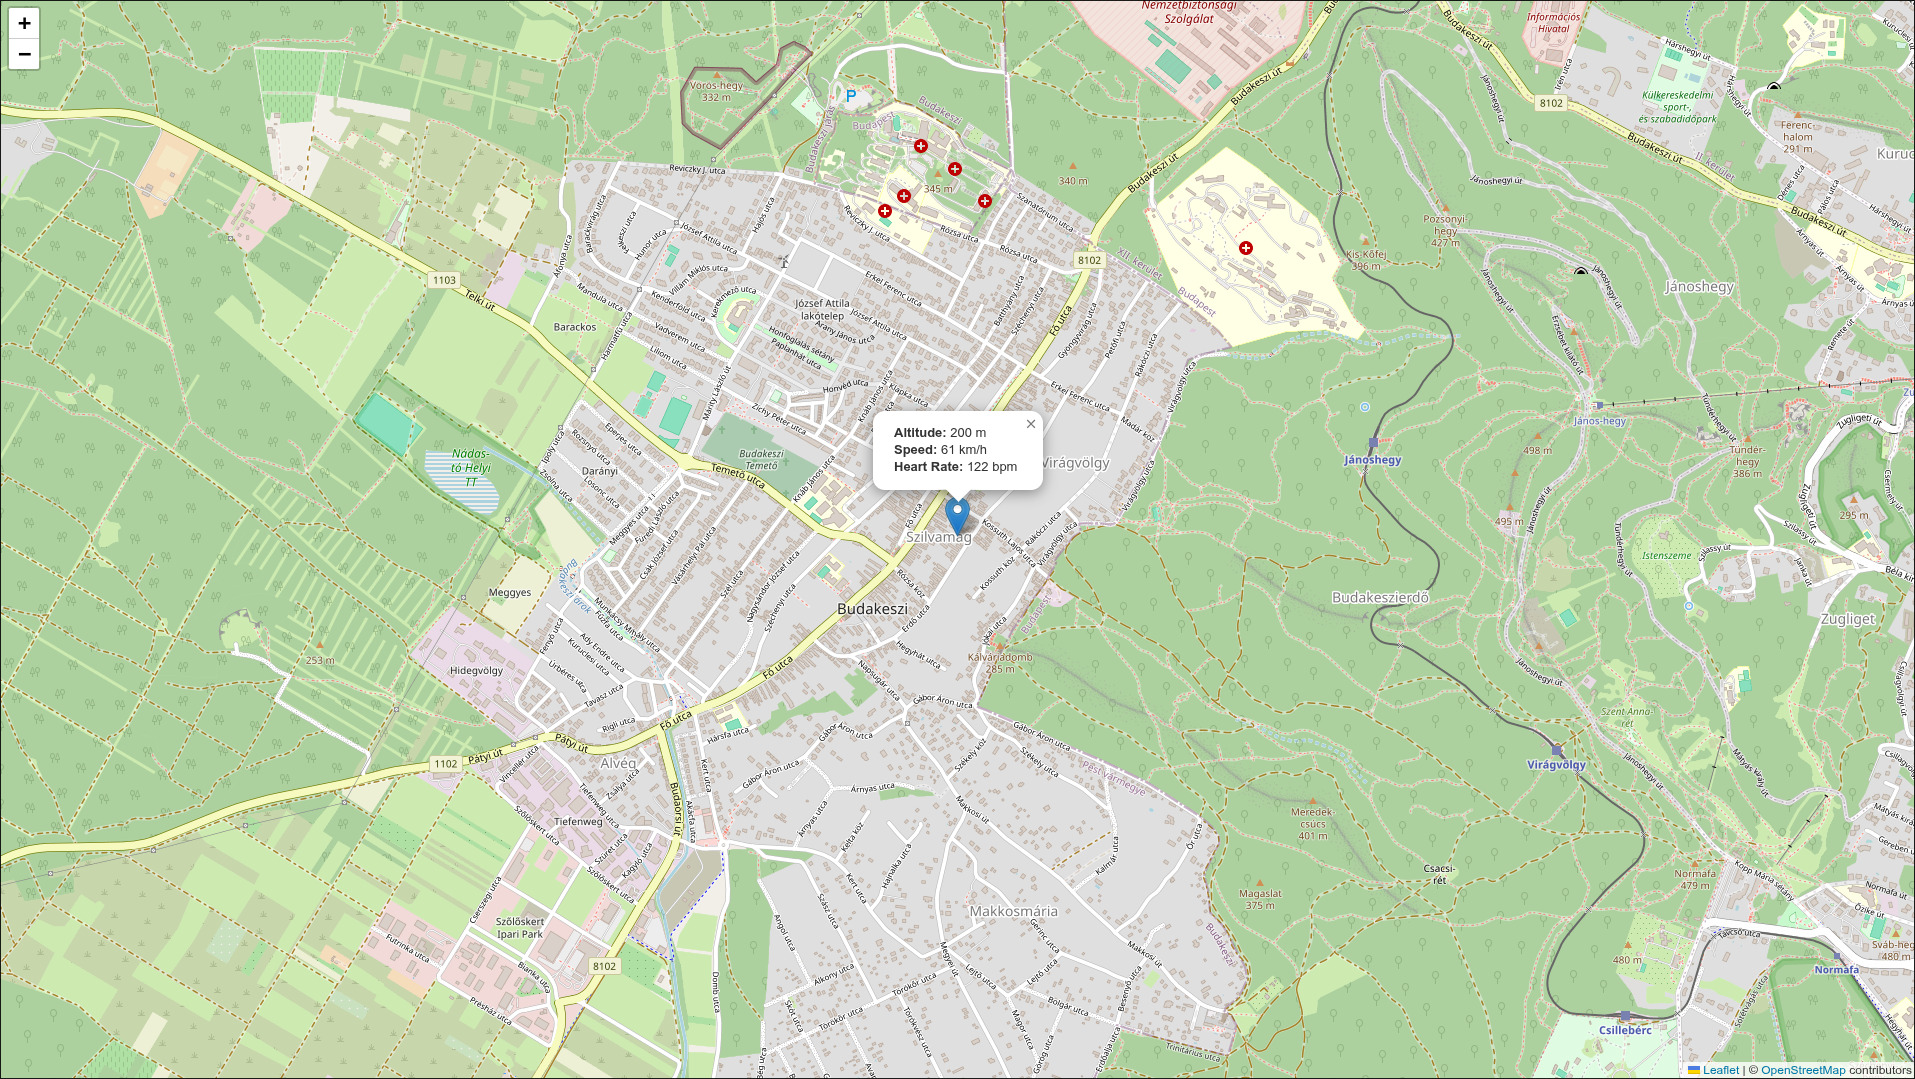
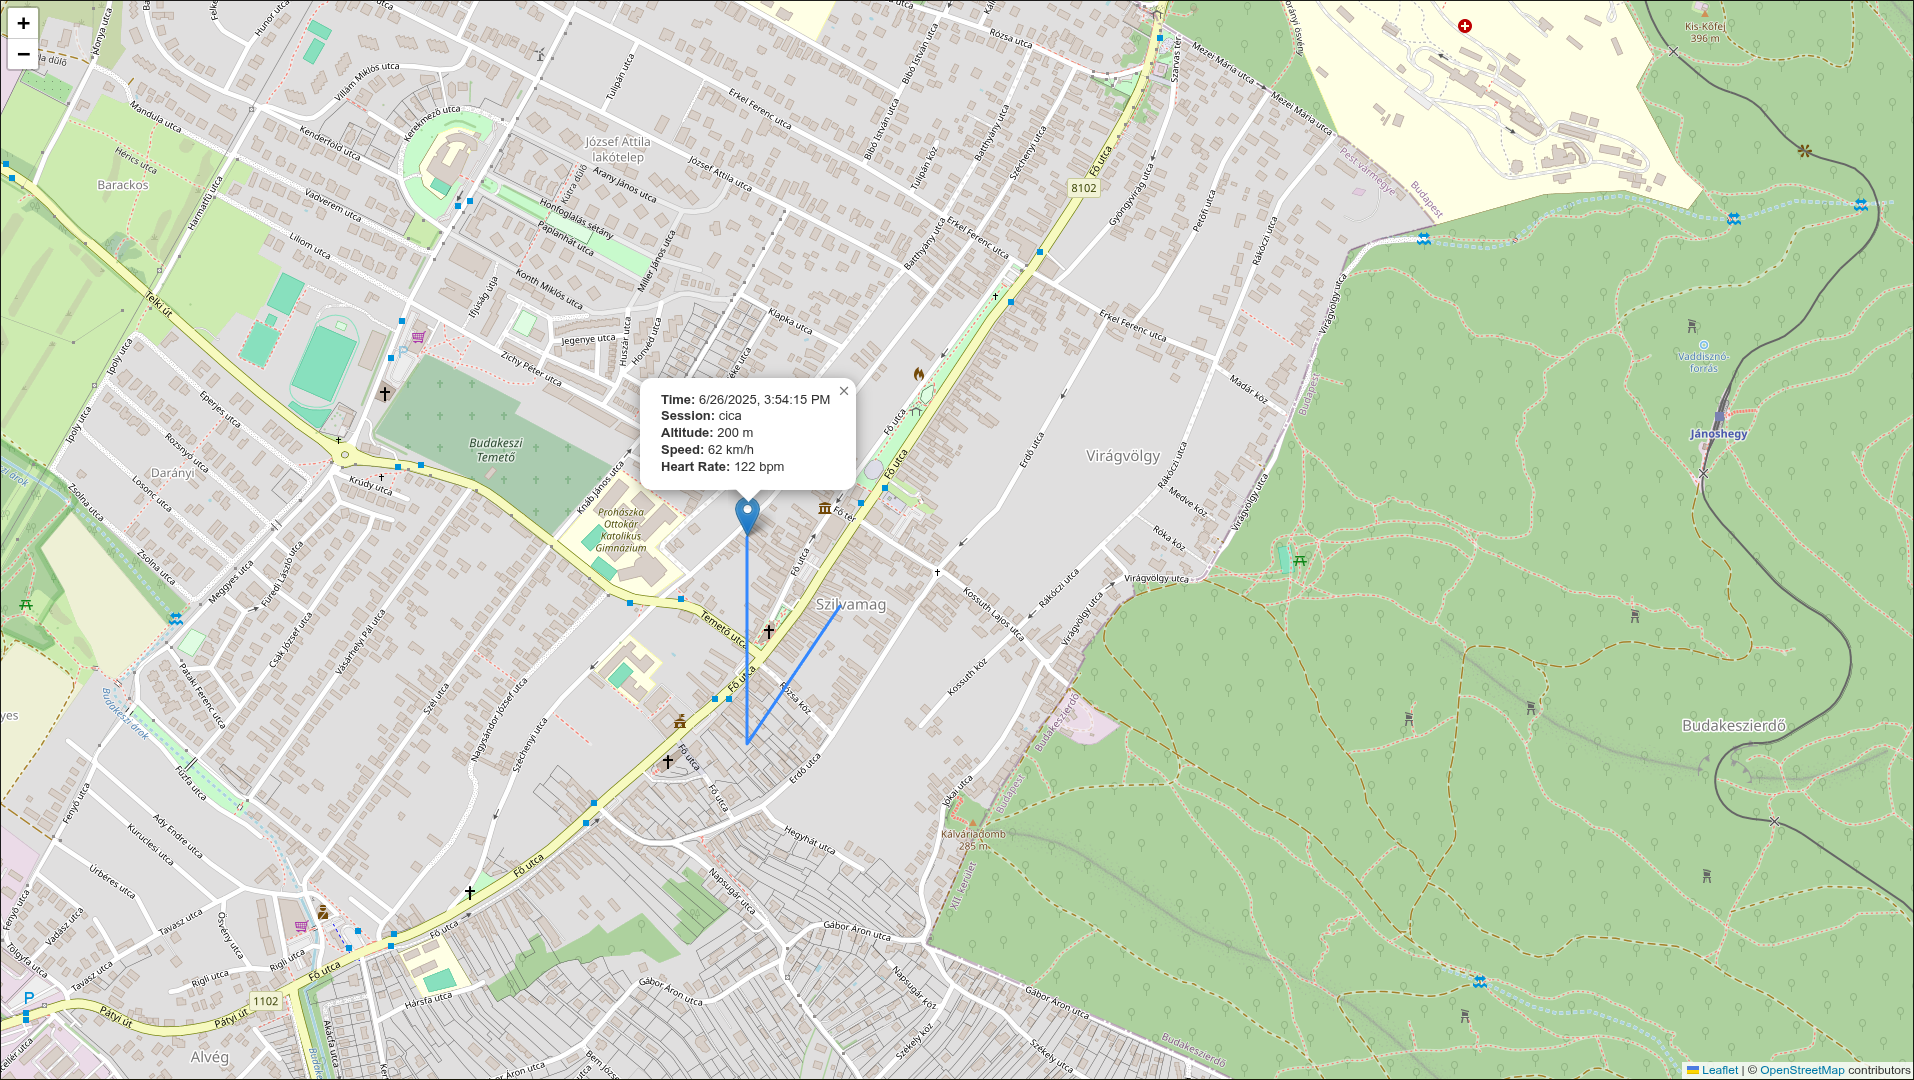
track + location display

diff --git a/public/app.js b/public/app.js
@@ -29,7 +29,34 @@ if (username) {
 			return response.json();
 		})
 		.then(data => {
-			if (data.geometry.type === 'Point') {
+			if (data.type === 'FeatureCollection') {
+				L.geoJSON(data, {
+					onEachFeature: function (feature, layer) {
+						if (feature.properties) {
+							if (feature.geometry.type === 'LineString') {
+								const startTime = new Date(feature.properties.start_time * 1000).toLocaleString();
+								const endTime = new Date(feature.properties.end_time * 1000).toLocaleString();
+								layer.bindPopup(`
+									<b>Session:</b> ${feature.properties.session}<br>
+									<b>Start Time:</b> ${startTime}<br>
+									<b>End Time:</b> ${endTime}
+								`);
+							} else if (feature.geometry.type === 'Point') {
+								const [longitude, latitude, altitude] = feature.geometry.coordinates;
+								const { speed, heart_rate, timestamp, session } = feature.properties;
+								layer.bindPopup(`
+									<b>Time:</b> ${new Date(timestamp * 1000).toLocaleString()}<br>
+									<b>Session:</b> ${session || 'N/A'}<br>
+									<b>Altitude:</b> ${altitude} m<br>
+									<b>Speed:</b> ${speed} km/h<br>
+									<b>Heart Rate:</b> ${heart_rate} bpm
+								`);
+							}
+						}
+					}
+				}).addTo(map);
+				map.fitBounds(L.geoJSON(data).getBounds());
+			} else if (data.geometry.type === 'Point') {
 				const [longitude, latitude, altitude] = data.geometry.coordinates;
 				const { speed, heart_rate, timestamp, session } = data.properties;
 
@@ -43,24 +70,8 @@ if (username) {
 						<b>Heart Rate:</b> ${heart_rate} bpm
 					`)
 					.openPopup();
-			} else if (data.geometry.type === 'LineString') {
-				const geojsonLayer = L.geoJSON(data, {
-					onEachFeature: function (feature, layer) {
-						if (feature.properties && feature.properties.session) {
-							const startTime = new Date(feature.properties.start_time * 1000).toLocaleString();
-							const endTime = new Date(feature.properties.end_time * 1000).toLocaleString();
-							layer.bindPopup(`
-								<b>Session:</b> ${feature.properties.session}<br>
-								<b>Start Time:</b> ${startTime}<br>
-								<b>End Time:</b> ${endTime}
-							`);
-						}
-					}
-				}).addTo(map);
-
-				map.fitBounds(geojsonLayer.getBounds());
 			}
-		})
+    })
 		.catch(error => {
 			mapEl.style.display = 'none';
 			errorMessage.style.display = 'block';

diff --git a/main.go b/main.go
@@ -117,24 +117,54 @@ func main() {
 				}
 			}
 
-			// Get properties from the first record for the LineString properties
-			firstRecord := records[0]
-			properties := map[string]interface{}{
-				"session": firstRecord.GetString("session"),
-				"start_time": firstRecord.GetDateTime("timestamp").Time().Unix(),
-				"end_time": records[len(records)-1].GetDateTime("timestamp").Time().Unix(),
+			// LineString Feature
+			lineStringProperties := map[string]interface{}{
+				"session":    records[0].GetString("session"),
+				"start_time": records[0].GetDateTime("timestamp").Time().Unix(),
+				"end_time":   records[len(records)-1].GetDateTime("timestamp").Time().Unix(),
 			}
-
-			geoJSON := map[string]interface{}{
+			lineStringFeature := map[string]interface{}{
 				"type": "Feature",
 				"geometry": map[string]interface{}{
 					"type":        "LineString",
 					"coordinates": coordinates,
 				},
-				"properties": properties,
+				"properties": lineStringProperties,
 			}
 
-			return c.JSON(http.StatusOK, geoJSON)
+			// Latest Point Feature
+			latestRecord := records[len(records)-1]
+			pointCoordinates := []float64{
+				latestRecord.GetFloat("longitude"),
+				latestRecord.GetFloat("latitude"),
+				latestRecord.GetFloat("altitude"),
+			}
+			pointProperties := map[string]interface{}{
+				"timestamp":  latestRecord.GetDateTime("timestamp").Time().Unix(),
+				"speed":      latestRecord.GetFloat("speed"),
+				"heart_rate": latestRecord.GetFloat("heart_rate"),
+				"session":    latestRecord.GetString("session"),
+			}
+			pointFeature := map[string]interface{}{
+				"type": "Feature",
+				"geometry": map[string]interface{}{
+					"type":        "Point",
+					"coordinates": pointCoordinates,
+				},
+				"properties": pointProperties,
+				"when": map[string]interface{}{
+					"properties": map[string]interface{}{
+						"DateTime": latestRecord.GetDateTime("timestamp").Time().Format(time.RFC3339),
+					},
+				},
+			}
+
+			featureCollection := map[string]interface{}{
+				"type":     "FeatureCollection",
+				"features": []interface{}{lineStringFeature, pointFeature},
+			}
+
+			return c.JSON(http.StatusOK, featureCollection)
 		})
 
 		e.Router.GET("/api/track", func(c echo.Context) error {
